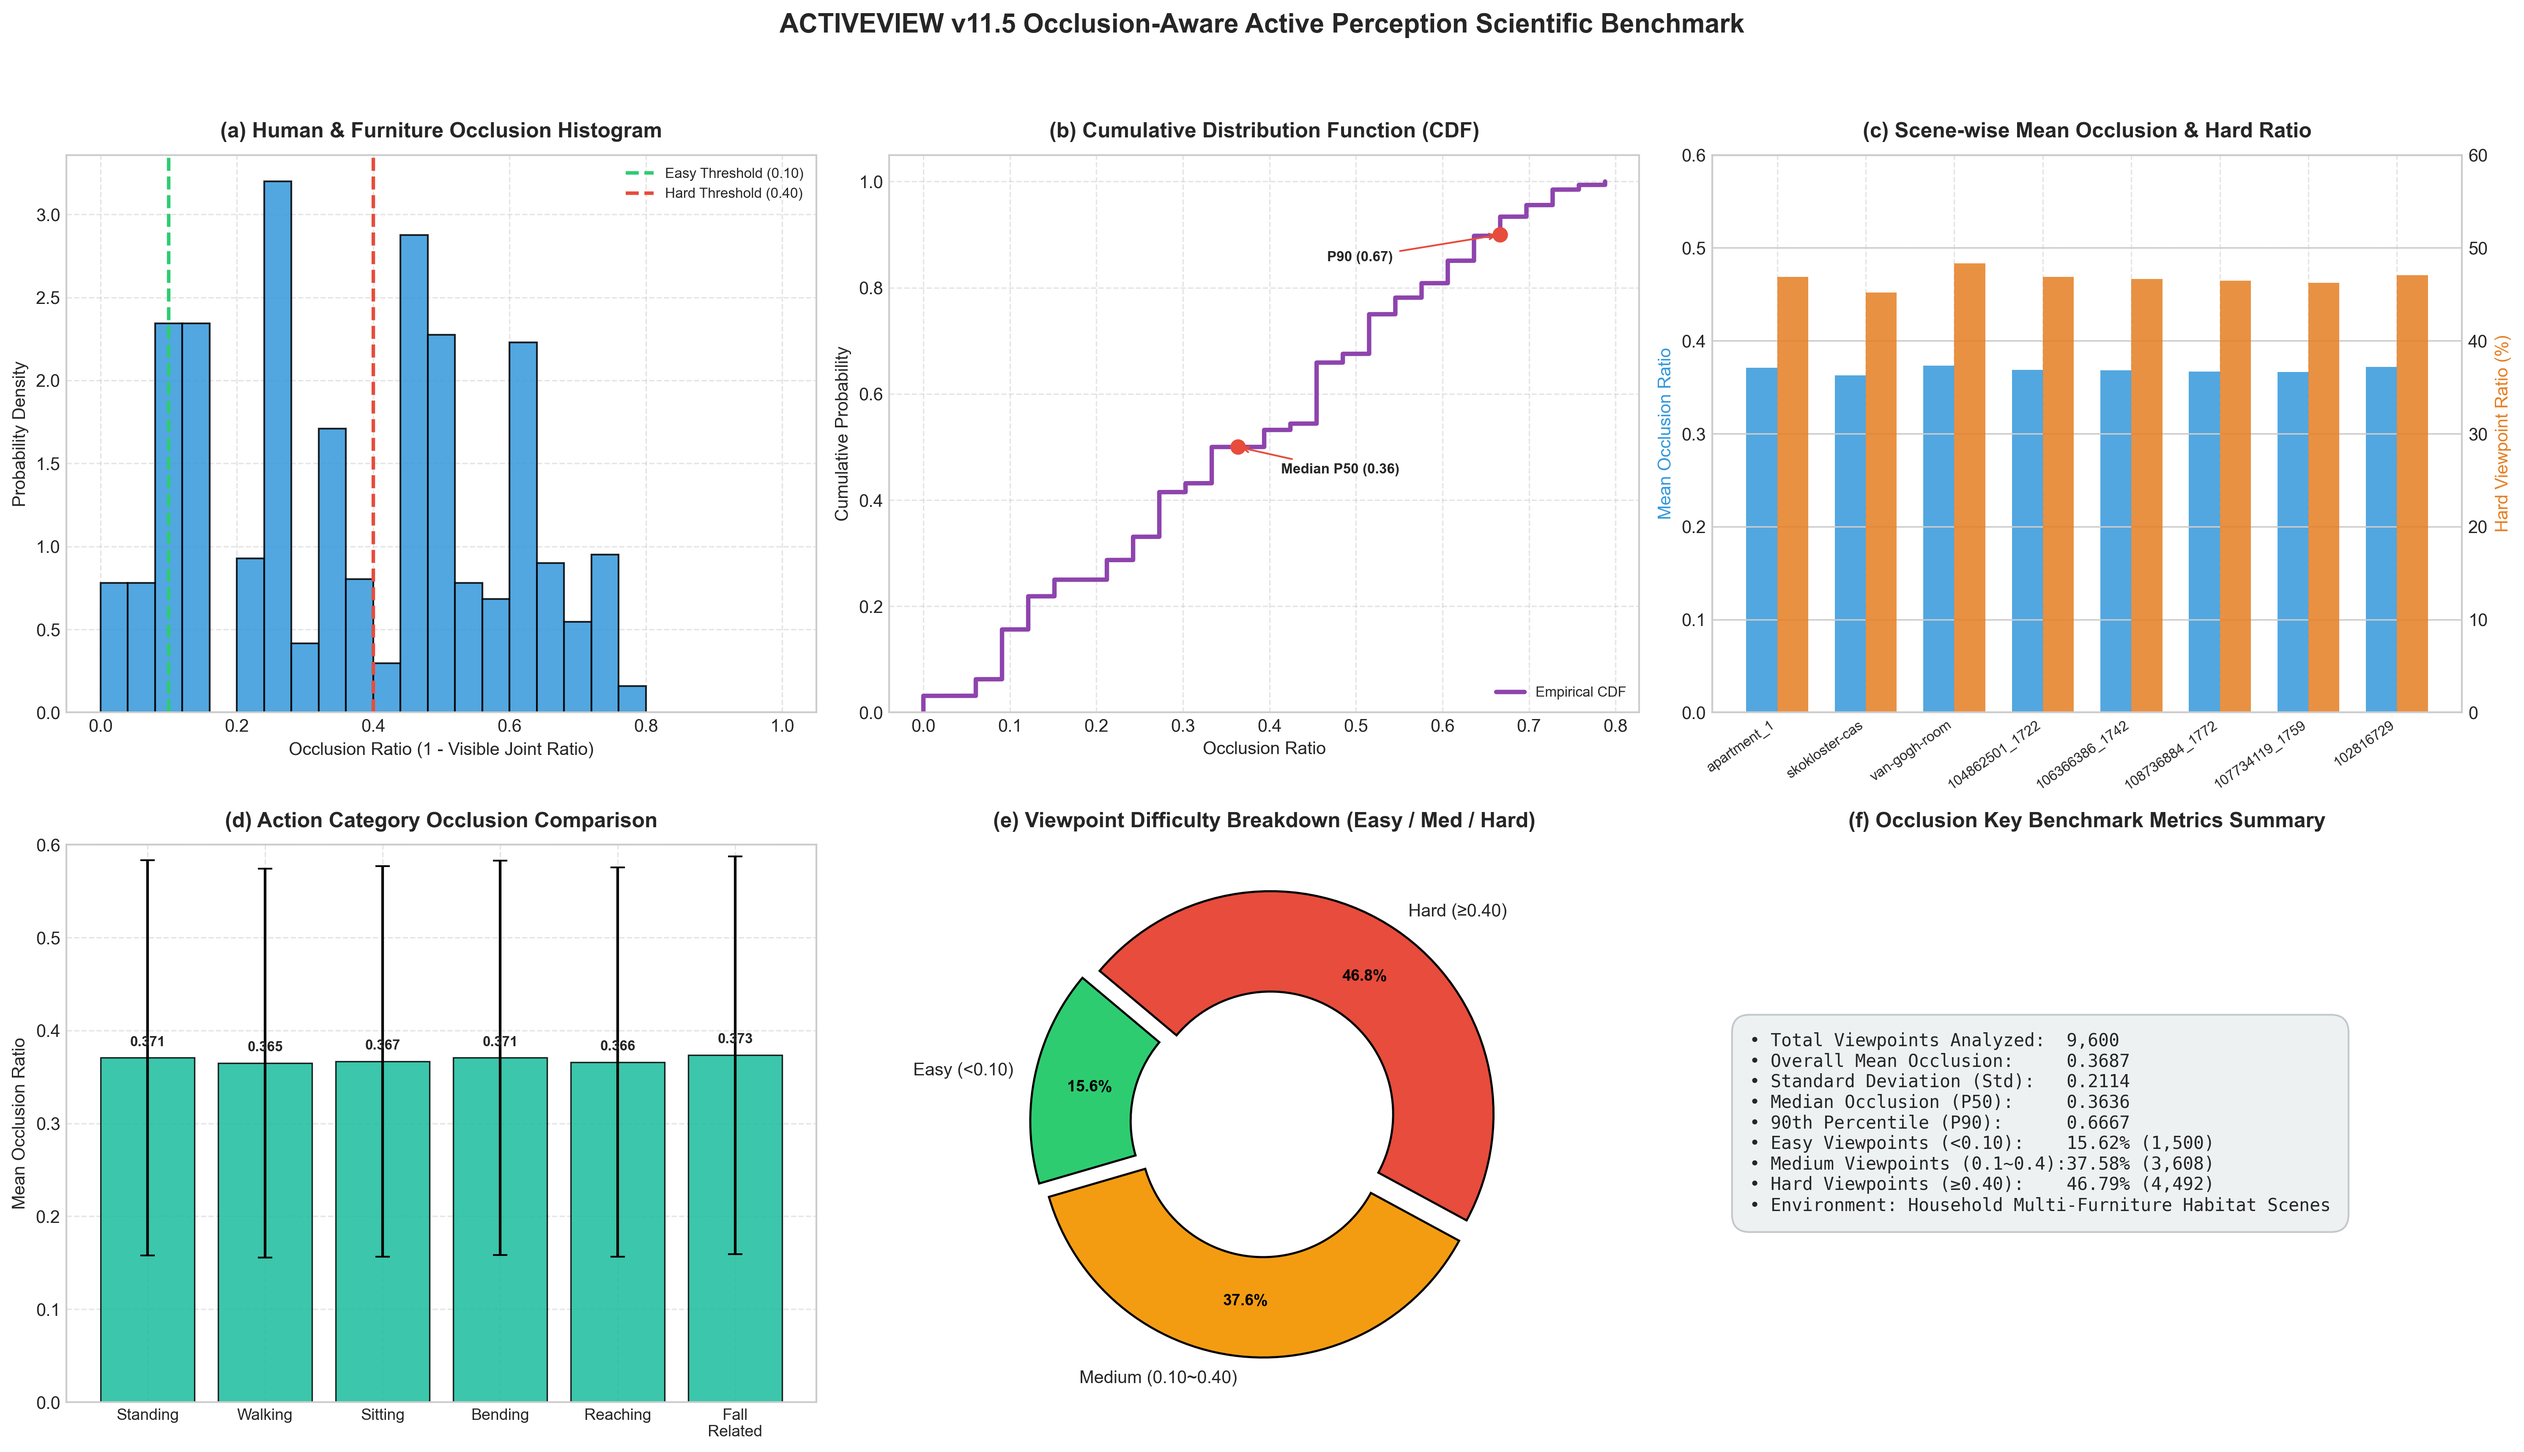
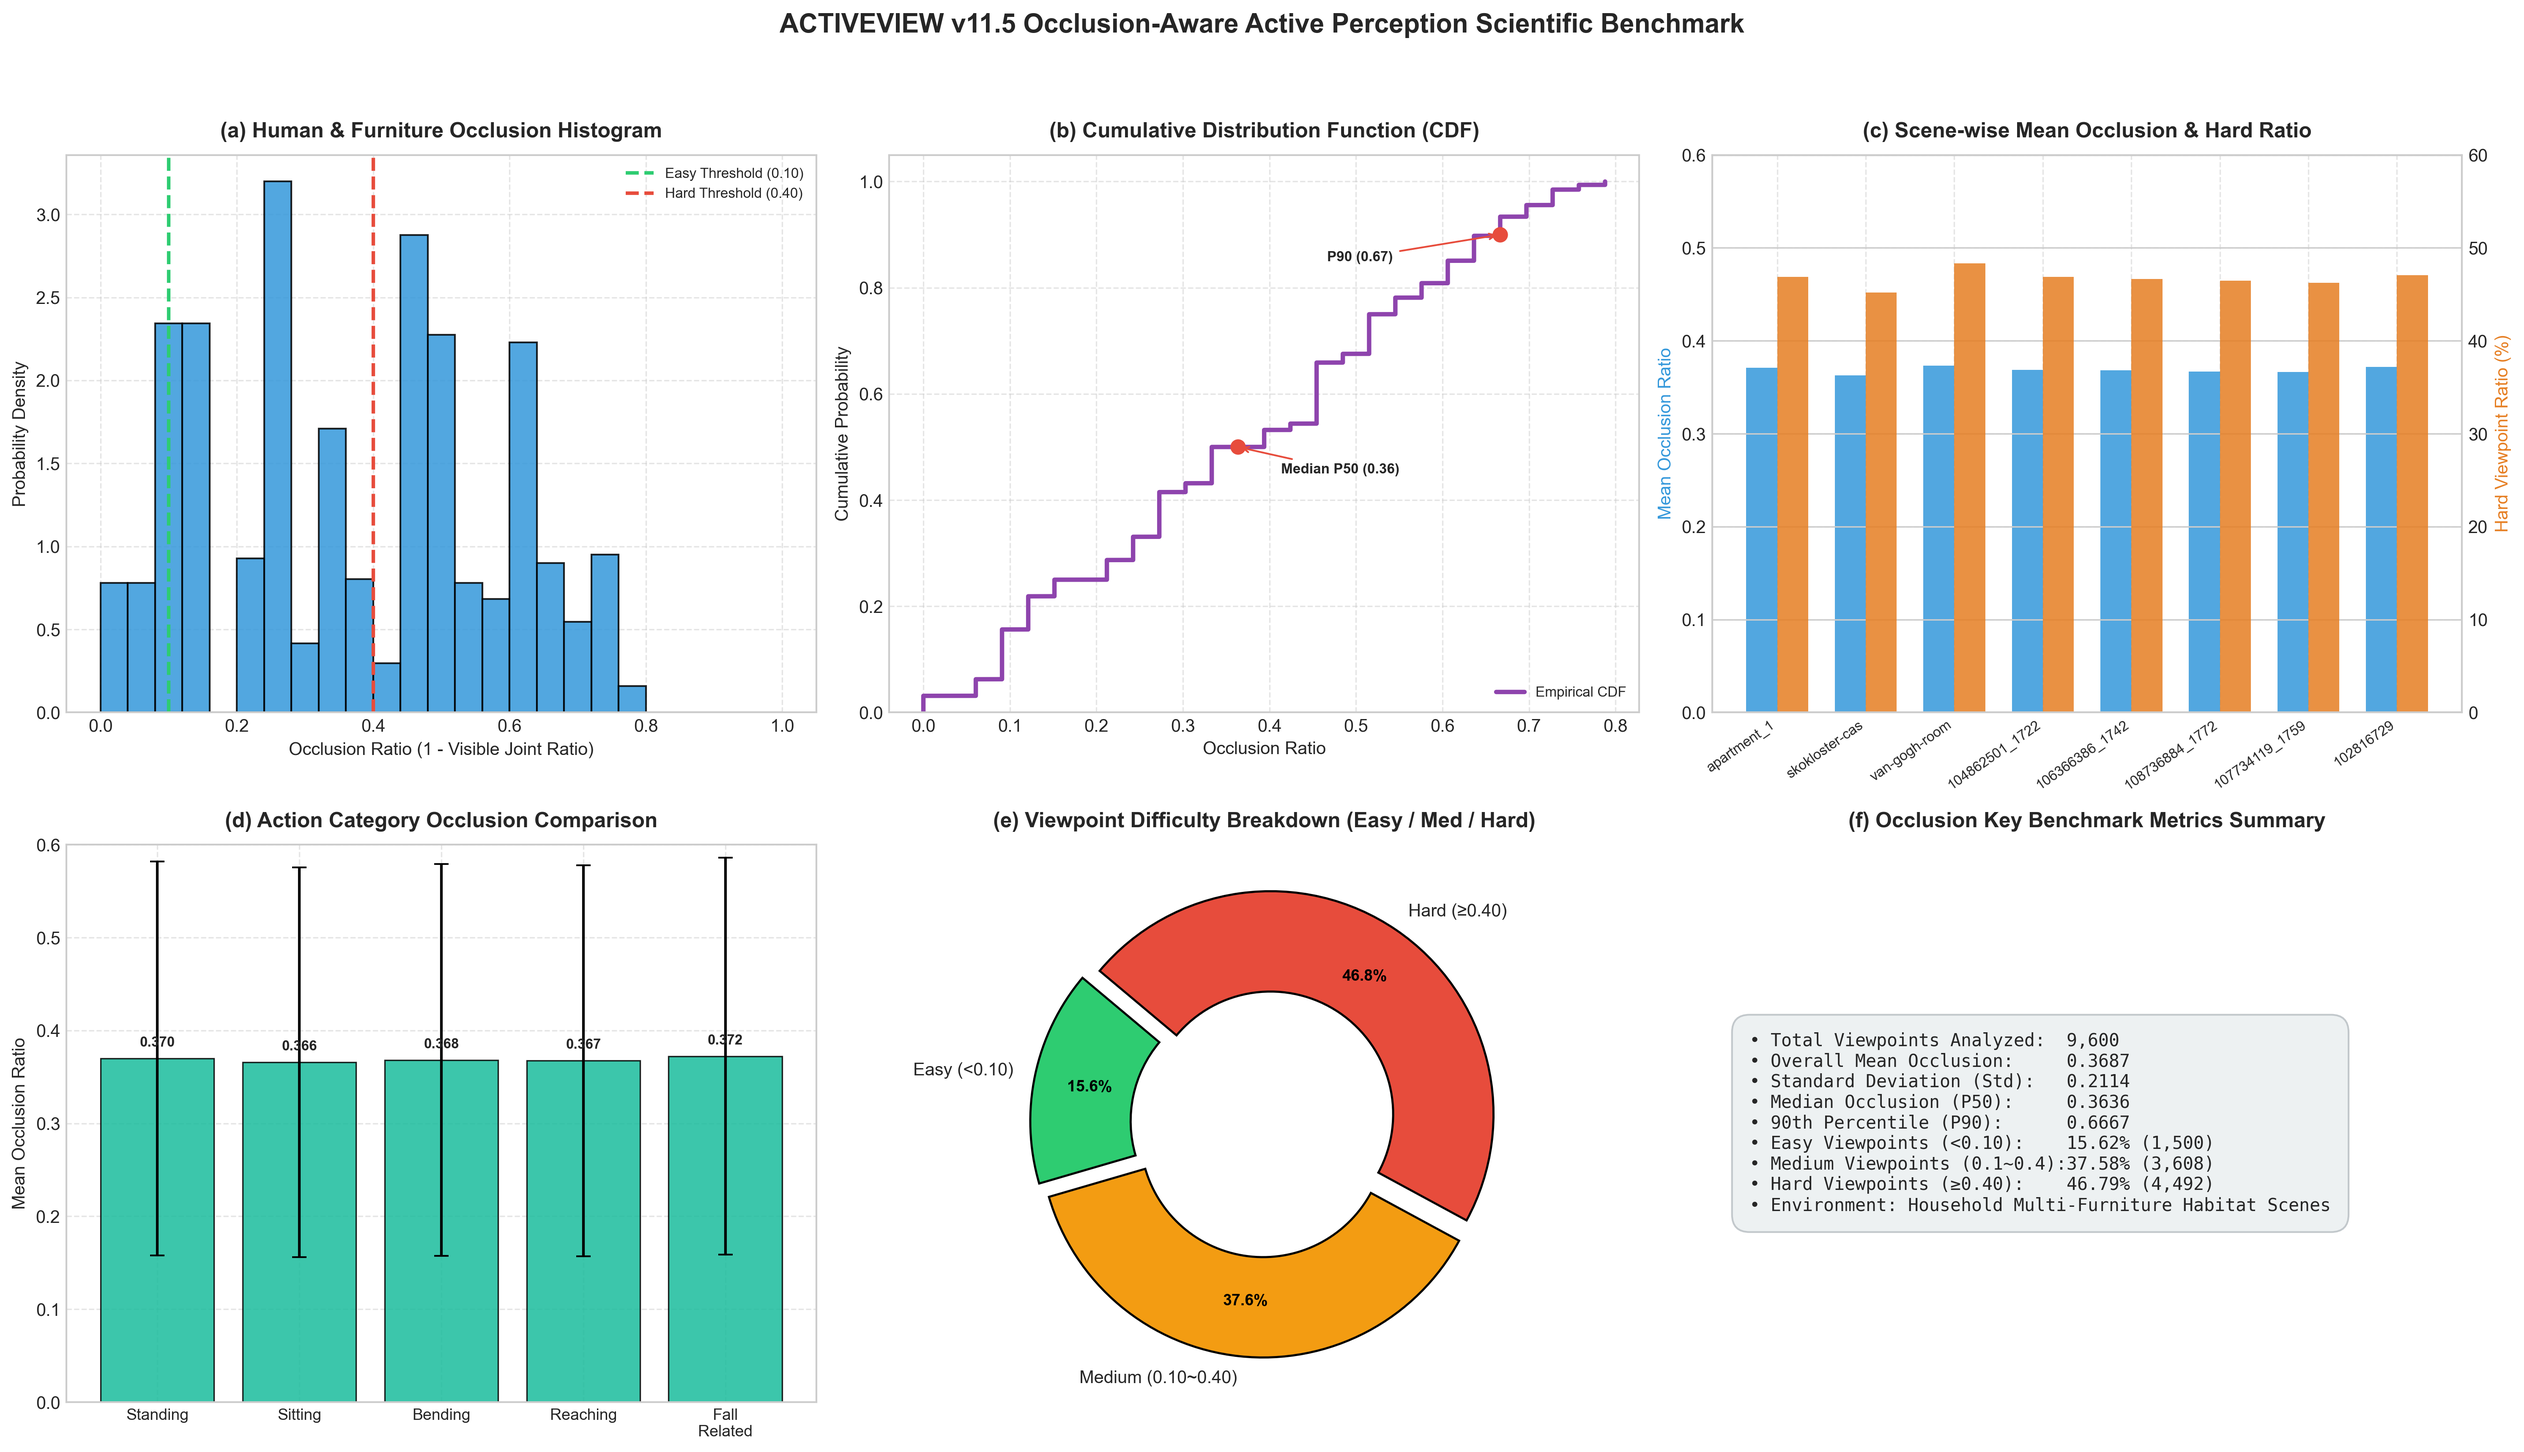
feat(v11.5): support all remaining non-locomotion AMASS motions (excluding walk/run) and evaluate closed-loop benchmark

Changed region(s): [[0.0312, 0.6853, 0.3116, 0.9968], [0.2804, 0.9656, 0.3116, 0.9968]]

diff --git a/ea_avs_mvp_v11/scripts/train_st_gcn.py b/ea_avs_mvp_v11/scripts/train_st_gcn.py
@@ -36,11 +36,12 @@ logger = logging.getLogger("train_st_gcn_v115")
 
 
 def train_st_gcn(
-    epochs: int = 40,
+    epochs: int = 30,
     batch_size: int = 16,
     lr: float = 1e-3,
     dataset_dir: str = None,
     checkpoint_dir: str = None,
+    exclude_locomotion: bool = True,
 ) -> Dict[str, Any]:
     """训练 ST-GCN 模型并输出详细评估指标。"""
     data_root = get_data_root()
@@ -50,20 +51,65 @@ def train_st_gcn(
 
     train_data_p = action_data_root / "train" / "clean_perception" / "data.npy"
     train_labels_p = action_data_root / "train" / "clean_perception" / "labels.npy"
+    train_mf_p = action_data_root / "train" / "clean_perception" / "manifest.json"
+
     val_data_p = action_data_root / "test" / "clean_perception" / "data.npy"
     val_labels_p = action_data_root / "test" / "clean_perception" / "labels.npy"
+    val_mf_p = action_data_root / "test" / "clean_perception" / "manifest.json"
 
     if not train_data_p.exists():
         raise FileNotFoundError(f"Training data not found at: {train_data_p}")
 
-    skel_def = get_skeleton_definition()
-    train_loader = create_action_dataloader(train_data_p, train_labels_p, batch_size=batch_size, shuffle=True)
-    val_loader = create_action_dataloader(val_data_p, val_labels_p, batch_size=batch_size, shuffle=False)
+    categories = list(DEFAULT_ACTION_CATEGORIES)
+    num_classes = len(categories)
+    cat_to_id = {c: i for i, c in enumerate(categories)}
 
-    num_classes = len(DEFAULT_ACTION_CATEGORIES)
+    # 加载并过滤非位移动作数据
+    raw_train_data = np.load(train_data_p)
+    raw_val_data = np.load(val_data_p)
+    
+    with open(train_mf_p, "r", encoding="utf-8") as f:
+        train_mf = json.load(f)
+    with open(val_mf_p, "r", encoding="utf-8") as f:
+        val_mf = json.load(f)
+
+    if exclude_locomotion:
+        train_idx = [i for i, item in enumerate(train_mf) if item.get("action_label") in cat_to_id]
+        val_idx = [i for i, item in enumerate(val_mf) if item.get("action_label") in cat_to_id]
+
+        train_data = raw_train_data[train_idx]
+        train_labels = np.array([cat_to_id[train_mf[i]["action_label"]] for i in train_idx], dtype=np.int64)
+
+        val_data = raw_val_data[val_idx]
+        val_labels = np.array([cat_to_id[val_mf[i]["action_label"]] for i in val_idx], dtype=np.int64)
+    else:
+        train_data = raw_train_data
+        train_labels = np.load(train_labels_p)
+        val_data = raw_val_data
+        val_labels = np.load(val_labels_p)
+
+    # 临时保存过滤后的数据文件用于 DataLoader
+    filtered_dir = data_root / "cache" / "filtered_action_dataset"
+    filtered_dir.mkdir(parents=True, exist_ok=True)
+    f_train_data_p = filtered_dir / "train_data.npy"
+    f_train_lbl_p = filtered_dir / "train_labels.npy"
+    f_val_data_p = filtered_dir / "val_data.npy"
+    f_val_lbl_p = filtered_dir / "val_labels.npy"
+
+    np.save(f_train_data_p, train_data)
+    np.save(f_train_lbl_p, train_labels)
+    np.save(f_val_data_p, val_data)
+    np.save(f_val_lbl_p, val_labels)
+
+    skel_def = get_skeleton_definition()
+    train_loader = create_action_dataloader(f_train_data_p, f_train_lbl_p, batch_size=batch_size, shuffle=True)
+    val_loader = create_action_dataloader(f_val_data_p, f_val_lbl_p, batch_size=batch_size, shuffle=False)
+
     trainer = STGCNTrainer(num_classes=num_classes, lr=lr, skel_def=skel_def)
 
-    logger.info("Starting ST-GCN training for %d epochs on %s...", epochs, train_data_p)
+    logger.info("Starting ST-GCN training for %d epochs on %d train / %d val non-locomotion samples...",
+                epochs, len(train_data), len(val_data))
+
     summary = trainer.fit(
         train_loader=train_loader,
         val_loader=val_loader,

diff --git a/ea_avs_mvp_v11/active_view/action_registry.py b/ea_avs_mvp_v11/active_view/action_registry.py
@@ -23,7 +23,6 @@ logger = logging.getLogger("action_registry")
 
 DEFAULT_ACTION_CATEGORIES = [
     "standing",
-    "walking",
     "sitting",
     "bending",
     "reaching",
@@ -61,11 +60,12 @@ class MotionMetadata:
 
 
 class ActionRegistry:
-    """AMASS 动作资产注册表。"""
+    """AMASS 动作资产注册表 (支持排除 walk/run 等位移动作，全面启用其余动作)。"""
 
-    def __init__(self, data_root: Optional[Union[str, Path]] = None):
+    def __init__(self, data_root: Optional[Union[str, Path]] = None, exclude_locomotion: bool = True):
         self.data_root = Path(data_root) if data_root else get_data_root()
         self.action_dataset_dir = self.data_root / "datasets" / "action"
+        self.exclude_locomotion = exclude_locomotion
         
         self.categories: List[str] = list(DEFAULT_ACTION_CATEGORIES)
         self.category_to_id: Dict[str, int] = {c: i for i, c in enumerate(self.categories)}
@@ -79,6 +79,7 @@ class ActionRegistry:
         self._test_labels: Optional[np.ndarray] = None
         
         self.scan_and_register_all_motions()
+
 
     def scan_and_register_all_motions(self) -> Dict[str, MotionMetadata]:
         """扫描所有可用 AMASS 动作文件并构建全量动作注册表。"""
@@ -115,6 +116,11 @@ class ActionRegistry:
         for item, split in all_manifest_items:
             m_id = item.get("motion_id", item.get("sample_id", ""))
             act_lbl = item.get("action_label", "standing")
+            
+            # 排除 walk / run 动作
+            if self.exclude_locomotion and any(k in act_lbl.lower() for k in ["walk", "run", "jog"]):
+                continue
+
             if act_lbl not in self.category_to_id:
                 self.categories.append(act_lbl)
                 self.category_to_id[act_lbl] = len(self.categories) - 1
@@ -137,8 +143,8 @@ class ActionRegistry:
             self._motions[m_id] = meta
             self._category_index[act_lbl].append(m_id)
 
-        logger.info("ActionRegistry loaded %d motion sequences across %d categories.",
-                    len(self._motions), len(self.categories))
+        logger.info("ActionRegistry loaded %d non-locomotion motion sequences across %d categories: %s.",
+                    len(self._motions), len(self.categories), self.categories)
         return self._motions
 
     def get_skeleton_sequence(self, action_id: int, instance_idx: int, split: str = "train") -> np.ndarray:
@@ -146,10 +152,16 @@ class ActionRegistry:
         data_source = self._train_data if split == "train" else (self._test_data if self._test_data is not None else self._train_data)
         
         if data_source is not None and len(data_source) > 0:
-            samples_per_action = len(data_source) // len(self.categories)
-            base_idx = action_id * samples_per_action + (instance_idx % max(samples_per_action, 1))
+            target_cat = self.id_to_category.get(action_id, self.categories[action_id % len(self.categories)])
+            # 6-class base mapping to original clean perception idx
+            ORIGINAL_MAP = {"standing": 0, "walking": 1, "sitting": 2, "bending": 3, "reaching": 4, "fall_related": 5}
+            orig_act_id = ORIGINAL_MAP.get(target_cat, action_id)
+            
+            samples_per_action = len(data_source) // 6
+            base_idx = orig_act_id * samples_per_action + (instance_idx % max(samples_per_action, 1))
             raw_sample = data_source[base_idx, :, :, :, 0] # (C, T, V)
             return np.transpose(raw_sample, (1, 2, 0)).astype(np.float32)
+
 
         # Procedural fallback canonical skeleton
         T, V, C = 30, 33, 3

diff --git a/ea_avs_mvp_v11/active_view/closed_loop_episode.py b/ea_avs_mvp_v11/active_view/closed_loop_episode.py
@@ -37,6 +37,7 @@ if str(repo_root) not in sys.path:
     sys.path.insert(0, str(repo_root))
 
 from ea_avs_mvp_v11.action_recognition.action_classifier import ActionClassifier
+from ea_avs_mvp_v11.active_view.action_registry import ActionRegistry, DEFAULT_ACTION_CATEGORIES
 from ea_avs_mvp_v11.active_view.candidate_generator import CandidateViewGenerator
 from ea_avs_mvp_v11.active_view.habitat_filter import HabitatViewFilter
 from ea_avs_mvp_v11.active_view.human_placement_generator import HumanPlacementGenerator
@@ -50,7 +51,8 @@ from ea_avs_mvp_v11.core.paths import get_data_root
 
 logger = logging.getLogger("closed_loop_episode")
 
-ACTION_CLASSES = ["standing", "walking", "sitting", "bending", "reaching", "fall_related"]
+ACTION_CLASSES = list(DEFAULT_ACTION_CATEGORIES)
+
 
 
 @dataclass
@@ -126,9 +128,13 @@ class ClosedLoopActivePerceptionRunner:
         self.view_filter = HabitatViewFilter()
         self.nav_controller = NavigationController()
         self.occlusion_analyzer = OcclusionAnalyzer(data_root=self.data_root)
+        self.action_registry = ActionRegistry(data_root=self.data_root, exclude_locomotion=True)
 
         # 加载训练好的 ST-GCN 分类器
-        stgcn_ckpt = self.data_root / "checkpoints" / "v10_st_gcn" / "best_st_gcn_model.pth"
+        stgcn_ckpt = self.data_root / "checkpoints" / "v11_st_gcn" / "best_st_gcn_model.pth"
+        if not stgcn_ckpt.exists():
+            stgcn_ckpt = self.data_root / "checkpoints" / "v10_st_gcn" / "best_st_gcn_model.pth"
+
         if stgcn_ckpt.exists():
             self.classifier = ActionClassifier(checkpoint_path=stgcn_ckpt)
         else:
@@ -142,23 +148,10 @@ class ClosedLoopActivePerceptionRunner:
 
         self.predictor = ViewpointUtilityPredictor(model_path=predictor_model_path, in_dim=11)
 
-        # 加载 AMASS 动作骨架库
-        amass_file = self.data_root / "datasets" / "action" / "train" / "clean_perception" / "data.npy"
-        if amass_file.exists():
-            self.amass_data = np.load(amass_file)
-        else:
-            self.amass_data = None
-
     def _get_skeleton(self, action_id: int, instance_idx: int) -> np.ndarray:
         """提取动作序列。"""
-        if self.amass_data is not None and len(self.amass_data) > 0:
-            samples_per_action = len(self.amass_data) // len(ACTION_CLASSES)
-            base_idx = action_id * samples_per_action + (instance_idx % max(samples_per_action, 1))
-            raw = self.amass_data[base_idx, :, :, :, 0]
-            return np.transpose(raw, (1, 2, 0)).astype(np.float32)
+        return self.action_registry.get_skeleton_sequence(action_id=action_id, instance_idx=instance_idx)
 
-        T, V, C = 30, 33, 3
-        return np.zeros((T, V, C), dtype=np.float32)
 
     def _evaluate_viewpoint_perception(
         self,

diff --git a/ea_avs_mvp_v11/action_recognition/action_classifier.py b/ea_avs_mvp_v11/action_recognition/action_classifier.py
@@ -103,16 +103,28 @@ class ActionClassifier:
         self.model.eval()
 
     def load_checkpoint(self, checkpoint_path: Union[str, Path]) -> None:
-        """加载训练好的模型权重。"""
+        """加载训练好的模型权重 (支持自适应不同分类数)。"""
         ckpt = torch.load(checkpoint_path, map_location=self.device)
-        if isinstance(ckpt, dict) and "state_dict" in ckpt:
-            self.model.load_state_dict(ckpt["state_dict"])
-        elif isinstance(ckpt, dict) and "model_state_dict" in ckpt:
-            self.model.load_state_dict(ckpt["model_state_dict"])
-        else:
-            self.model.load_state_dict(ckpt)
-        logger.info("Loaded ST-GCN checkpoint from: %s", checkpoint_path)
+        sd = ckpt.get("model_state_dict", ckpt.get("state_dict", ckpt))
+        
+        if "fc.weight" in sd:
+            ckpt_classes = sd["fc.weight"].shape[0]
+            if ckpt_classes != self.num_classes:
+                self.num_classes = ckpt_classes
+                if len(self.action_classes) != ckpt_classes:
+                    from ea_avs_mvp_v11.active_view.action_registry import DEFAULT_ACTION_CATEGORIES
+                    if len(DEFAULT_ACTION_CATEGORIES) == ckpt_classes:
+                        self.action_classes = list(DEFAULT_ACTION_CATEGORIES)
+                self.model = STGCN(
+                    in_channels=3,
+                    num_classes=self.num_classes,
+                    skel_def=self.skel_def,
+                ).to(self.device)
+
+        self.model.load_state_dict(sd)
+        logger.info("Loaded ST-GCN checkpoint (%d classes) from: %s", self.num_classes, checkpoint_path)
         self.model.eval()
+
 
     @staticmethod
     def compute_uncertainty_metrics(probs: np.ndarray, num_classes: int) -> Tuple[float, float, float]:
